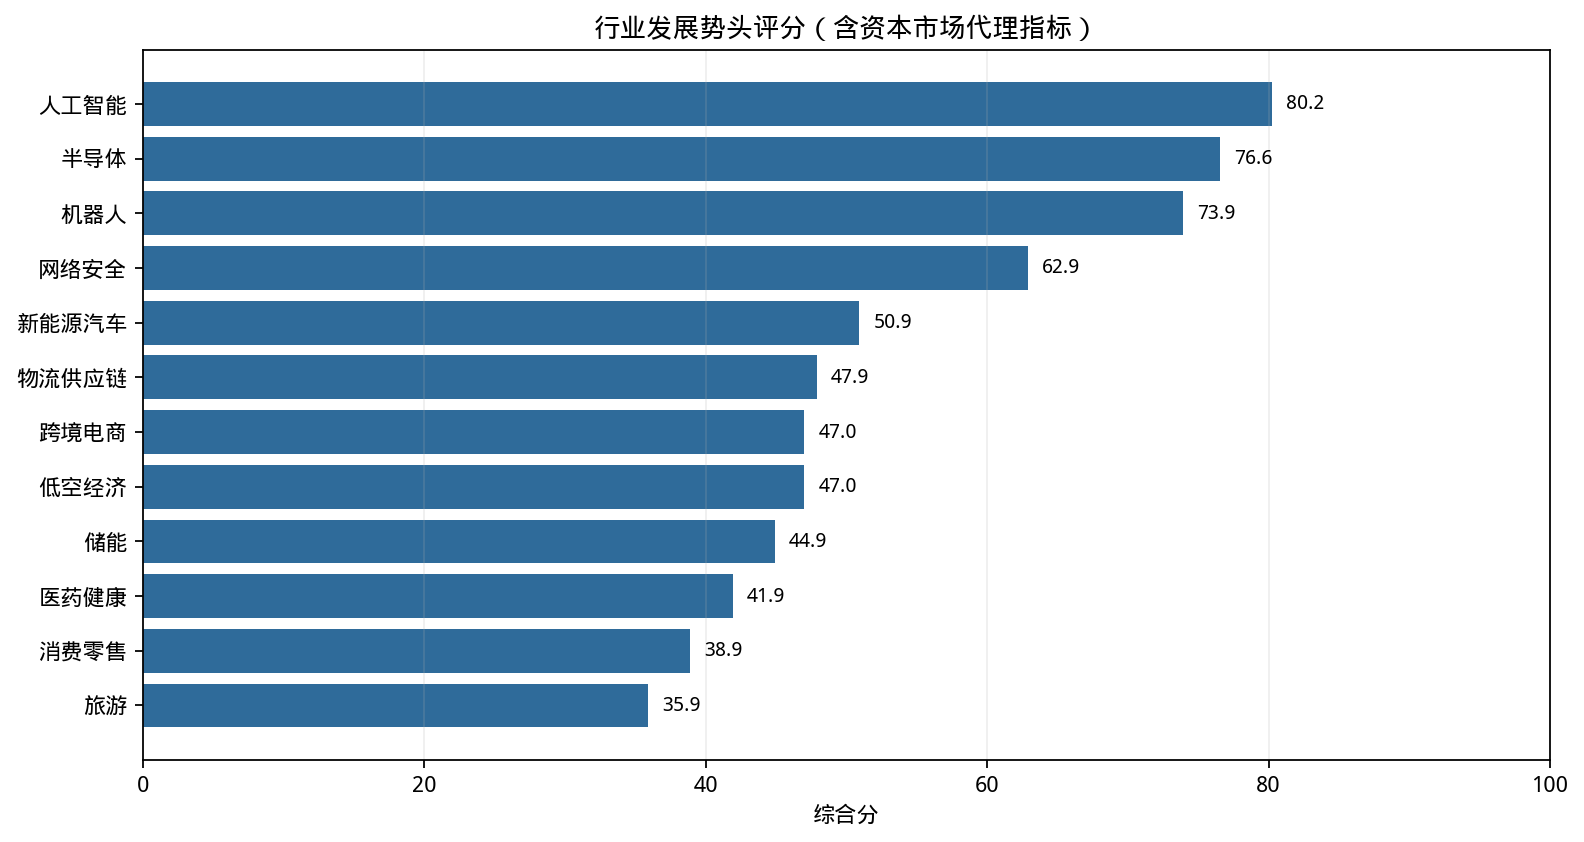
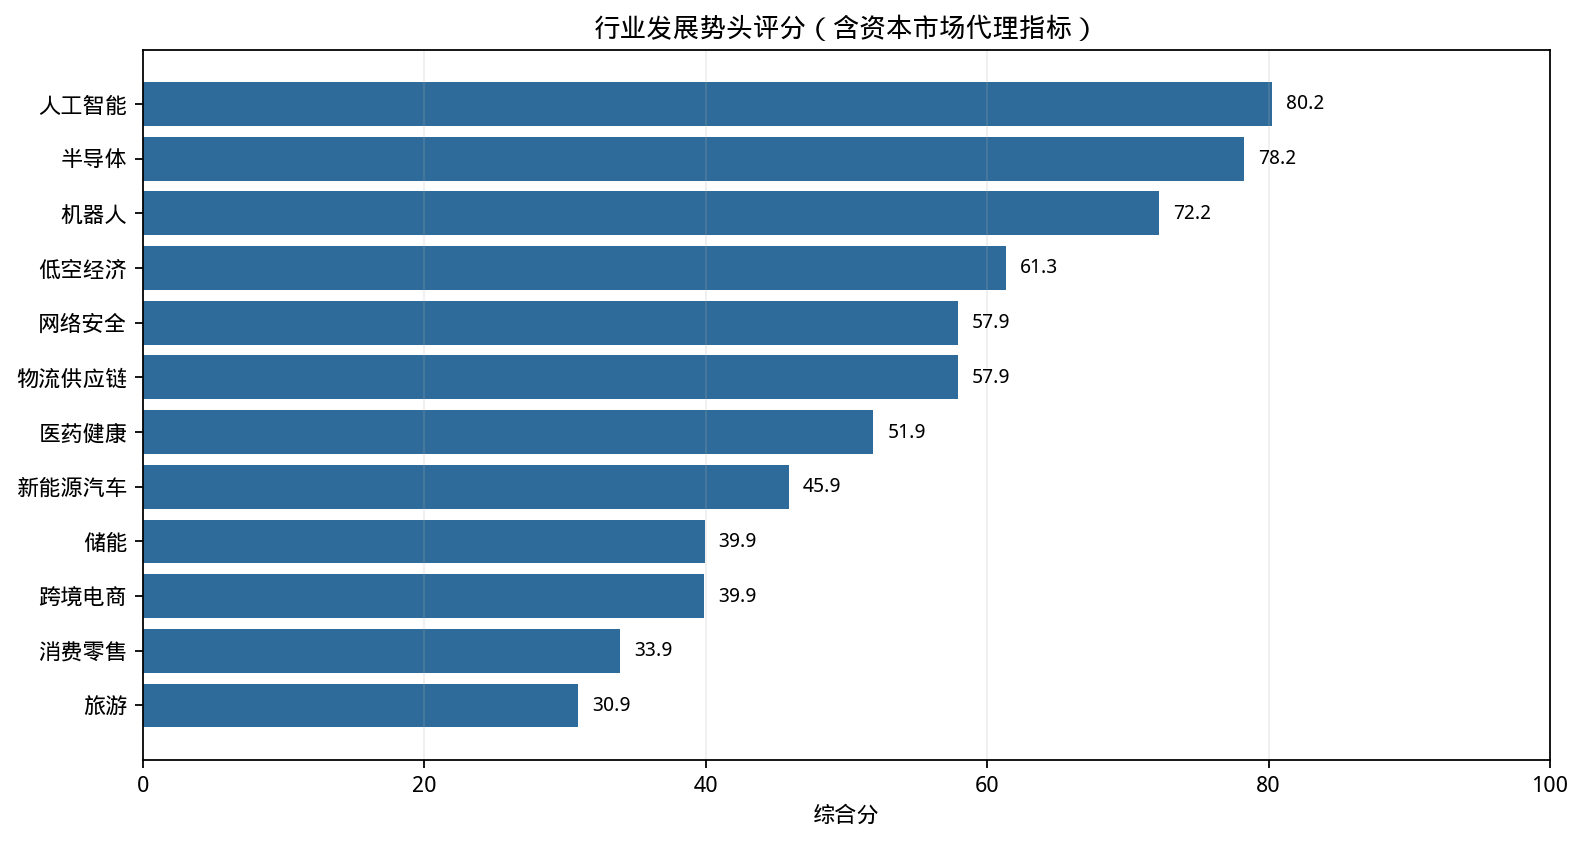
Daily update industry tracker report 2026-06-12

diff --git a/archives/2026-06-12/reports/industry_report.md b/archives/2026-06-12/reports/industry_report.md
@@ -1,6 +1,6 @@
 # 行业发展势头排名报告
 
-- 生成时间：2026-06-12 01:33:56 CST
+- 生成时间：2026-06-12 08:00:22 CST
 - 数据日期：2026-06-12
 
 ## 行业排名
@@ -8,25 +8,25 @@
 | 排名 | 行业 | 综合分 | 新闻热度分 | 市场代理分 | 政策热度分 | 可用权重 |
 | --- | --- | --- | --- | --- | --- | --- |
 | 1 | 人工智能 | 80.25 | 100.00 | 80.00 | 54.17 | 1.00 |
-| 2 | 半导体 | 76.58 | 83.33 | 90.00 | 54.17 | 1.00 |
-| 3 | 机器人 | 73.92 | 91.67 | 70.00 | 54.17 | 1.00 |
-| 4 | 网络安全 | 62.92 | 41.67 | 100.00 | 54.17 | 1.00 |
-| 5 | 新能源汽车 | 50.92 | 41.67 | 60.00 | 54.17 | 1.00 |
-| 6 | 物流供应链 | 47.92 | 41.67 | 50.00 | 54.17 | 1.00 |
-| 7 | 低空经济 | 47.02 | 41.67 | - | 54.17 | 0.70 |
-| 7 | 跨境电商 | 47.02 | 41.67 | - | 54.17 | 0.70 |
-| 9 | 储能 | 44.92 | 41.67 | 40.00 | 54.17 | 1.00 |
-| 10 | 医药健康 | 41.92 | 41.67 | 30.00 | 54.17 | 1.00 |
-| 11 | 消费零售 | 38.92 | 41.67 | 20.00 | 54.17 | 1.00 |
-| 12 | 旅游 | 35.92 | 41.67 | 10.00 | 54.17 | 1.00 |
+| 2 | 半导体 | 78.25 | 87.50 | 90.00 | 54.17 | 1.00 |
+| 3 | 机器人 | 72.25 | 87.50 | 70.00 | 54.17 | 1.00 |
+| 4 | 低空经济 | 61.31 | 66.67 | - | 54.17 | 0.70 |
+| 5 | 物流供应链 | 57.92 | 66.67 | 50.00 | 54.17 | 1.00 |
+| 5 | 网络安全 | 57.92 | 29.17 | 100.00 | 54.17 | 1.00 |
+| 7 | 医药健康 | 51.92 | 66.67 | 30.00 | 54.17 | 1.00 |
+| 8 | 新能源汽车 | 45.92 | 29.17 | 60.00 | 54.17 | 1.00 |
+| 9 | 储能 | 39.92 | 29.17 | 40.00 | 54.17 | 1.00 |
+| 10 | 跨境电商 | 39.88 | 29.17 | - | 54.17 | 0.70 |
+| 11 | 消费零售 | 33.92 | 29.17 | 20.00 | 54.17 | 1.00 |
+| 12 | 旅游 | 30.92 | 29.17 | 10.00 | 54.17 | 1.00 |
 
 ## Top 5 行业及判断依据
 
-- **人工智能**：综合分 80.25；新闻热度 5，市场代理近 3 个月收益 0.2225，政策热度 0。
-- **半导体**：综合分 76.58；新闻热度 2，市场代理近 3 个月收益 0.3316，政策热度 0。
-- **机器人**：综合分 73.92；新闻热度 4，市场代理近 3 个月收益 0.0948，政策热度 0。
-- **网络安全**：综合分 62.92；新闻热度 0，市场代理近 3 个月收益 0.4721，政策热度 0。
-- **新能源汽车**：综合分 50.92；新闻热度 0，市场代理近 3 个月收益 -0.0455，政策热度 0。
+- **人工智能**：综合分 80.25；新闻热度 7，市场代理近 3 个月收益 0.2225，政策热度 0。
+- **半导体**：综合分 78.25；新闻热度 2，市场代理近 3 个月收益 0.3316，政策热度 0。
+- **机器人**：综合分 72.25；新闻热度 2，市场代理近 3 个月收益 0.0948，政策热度 0。
+- **低空经济**：综合分 61.31；新闻热度 1，市场代理近 3 个月收益 -，政策热度 0。
+- **物流供应链**：综合分 57.92；新闻热度 1，市场代理近 3 个月收益 -0.0804，政策热度 0。
 
 ## 数据完整性与降级状态
 
@@ -35,13 +35,13 @@
 | 人工智能 | 1.00 |  | news_heat:ok; market_return_3m:ok; policy_heat:no_match |
 | 半导体 | 1.00 |  | news_heat:ok; market_return_3m:ok; policy_heat:no_match |
 | 机器人 | 1.00 |  | news_heat:ok; market_return_3m:ok; policy_heat:no_match |
+| 低空经济 | 0.70 | market_return_3m | news_heat:ok; market_return_3m:missing_config; policy_heat:no_match |
+| 物流供应链 | 1.00 |  | news_heat:ok; market_return_3m:ok; policy_heat:no_match |
 | 网络安全 | 1.00 |  | news_heat:no_match; market_return_3m:ok; policy_heat:no_match |
+| 医药健康 | 1.00 |  | news_heat:ok; market_return_3m:ok; policy_heat:no_match |
 | 新能源汽车 | 1.00 |  | news_heat:no_match; market_return_3m:ok; policy_heat:no_match |
-| 物流供应链 | 1.00 |  | news_heat:no_match; market_return_3m:ok; policy_heat:no_match |
-| 低空经济 | 0.70 | market_return_3m | news_heat:no_match; market_return_3m:missing_config; policy_heat:no_match |
-| 跨境电商 | 0.70 | market_return_3m | news_heat:no_match; market_return_3m:missing_config; policy_heat:no_match |
 | 储能 | 1.00 |  | news_heat:no_match; market_return_3m:ok; policy_heat:no_match |
-| 医药健康 | 1.00 |  | news_heat:no_match; market_return_3m:ok; policy_heat:no_match |
+| 跨境电商 | 0.70 | market_return_3m | news_heat:no_match; market_return_3m:missing_config; policy_heat:no_match |
 | 消费零售 | 1.00 |  | news_heat:no_match; market_return_3m:ok; policy_heat:no_match |
 | 旅游 | 1.00 |  | news_heat:no_match; market_return_3m:ok; policy_heat:no_match |
 

diff --git a/reports/industry_report.md b/reports/industry_report.md
@@ -1,6 +1,6 @@
 # 行业发展势头排名报告
 
-- 生成时间：2026-06-12 01:33:56 CST
+- 生成时间：2026-06-12 08:00:22 CST
 - 数据日期：2026-06-12
 
 ## 行业排名
@@ -8,25 +8,25 @@
 | 排名 | 行业 | 综合分 | 新闻热度分 | 市场代理分 | 政策热度分 | 可用权重 |
 | --- | --- | --- | --- | --- | --- | --- |
 | 1 | 人工智能 | 80.25 | 100.00 | 80.00 | 54.17 | 1.00 |
-| 2 | 半导体 | 76.58 | 83.33 | 90.00 | 54.17 | 1.00 |
-| 3 | 机器人 | 73.92 | 91.67 | 70.00 | 54.17 | 1.00 |
-| 4 | 网络安全 | 62.92 | 41.67 | 100.00 | 54.17 | 1.00 |
-| 5 | 新能源汽车 | 50.92 | 41.67 | 60.00 | 54.17 | 1.00 |
-| 6 | 物流供应链 | 47.92 | 41.67 | 50.00 | 54.17 | 1.00 |
-| 7 | 低空经济 | 47.02 | 41.67 | - | 54.17 | 0.70 |
-| 7 | 跨境电商 | 47.02 | 41.67 | - | 54.17 | 0.70 |
-| 9 | 储能 | 44.92 | 41.67 | 40.00 | 54.17 | 1.00 |
-| 10 | 医药健康 | 41.92 | 41.67 | 30.00 | 54.17 | 1.00 |
-| 11 | 消费零售 | 38.92 | 41.67 | 20.00 | 54.17 | 1.00 |
-| 12 | 旅游 | 35.92 | 41.67 | 10.00 | 54.17 | 1.00 |
+| 2 | 半导体 | 78.25 | 87.50 | 90.00 | 54.17 | 1.00 |
+| 3 | 机器人 | 72.25 | 87.50 | 70.00 | 54.17 | 1.00 |
+| 4 | 低空经济 | 61.31 | 66.67 | - | 54.17 | 0.70 |
+| 5 | 物流供应链 | 57.92 | 66.67 | 50.00 | 54.17 | 1.00 |
+| 5 | 网络安全 | 57.92 | 29.17 | 100.00 | 54.17 | 1.00 |
+| 7 | 医药健康 | 51.92 | 66.67 | 30.00 | 54.17 | 1.00 |
+| 8 | 新能源汽车 | 45.92 | 29.17 | 60.00 | 54.17 | 1.00 |
+| 9 | 储能 | 39.92 | 29.17 | 40.00 | 54.17 | 1.00 |
+| 10 | 跨境电商 | 39.88 | 29.17 | - | 54.17 | 0.70 |
+| 11 | 消费零售 | 33.92 | 29.17 | 20.00 | 54.17 | 1.00 |
+| 12 | 旅游 | 30.92 | 29.17 | 10.00 | 54.17 | 1.00 |
 
 ## Top 5 行业及判断依据
 
-- **人工智能**：综合分 80.25；新闻热度 5，市场代理近 3 个月收益 0.2225，政策热度 0。
-- **半导体**：综合分 76.58；新闻热度 2，市场代理近 3 个月收益 0.3316，政策热度 0。
-- **机器人**：综合分 73.92；新闻热度 4，市场代理近 3 个月收益 0.0948，政策热度 0。
-- **网络安全**：综合分 62.92；新闻热度 0，市场代理近 3 个月收益 0.4721，政策热度 0。
-- **新能源汽车**：综合分 50.92；新闻热度 0，市场代理近 3 个月收益 -0.0455，政策热度 0。
+- **人工智能**：综合分 80.25；新闻热度 7，市场代理近 3 个月收益 0.2225，政策热度 0。
+- **半导体**：综合分 78.25；新闻热度 2，市场代理近 3 个月收益 0.3316，政策热度 0。
+- **机器人**：综合分 72.25；新闻热度 2，市场代理近 3 个月收益 0.0948，政策热度 0。
+- **低空经济**：综合分 61.31；新闻热度 1，市场代理近 3 个月收益 -，政策热度 0。
+- **物流供应链**：综合分 57.92；新闻热度 1，市场代理近 3 个月收益 -0.0804，政策热度 0。
 
 ## 数据完整性与降级状态
 
@@ -35,13 +35,13 @@
 | 人工智能 | 1.00 |  | news_heat:ok; market_return_3m:ok; policy_heat:no_match |
 | 半导体 | 1.00 |  | news_heat:ok; market_return_3m:ok; policy_heat:no_match |
 | 机器人 | 1.00 |  | news_heat:ok; market_return_3m:ok; policy_heat:no_match |
+| 低空经济 | 0.70 | market_return_3m | news_heat:ok; market_return_3m:missing_config; policy_heat:no_match |
+| 物流供应链 | 1.00 |  | news_heat:ok; market_return_3m:ok; policy_heat:no_match |
 | 网络安全 | 1.00 |  | news_heat:no_match; market_return_3m:ok; policy_heat:no_match |
+| 医药健康 | 1.00 |  | news_heat:ok; market_return_3m:ok; policy_heat:no_match |
 | 新能源汽车 | 1.00 |  | news_heat:no_match; market_return_3m:ok; policy_heat:no_match |
-| 物流供应链 | 1.00 |  | news_heat:no_match; market_return_3m:ok; policy_heat:no_match |
-| 低空经济 | 0.70 | market_return_3m | news_heat:no_match; market_return_3m:missing_config; policy_heat:no_match |
-| 跨境电商 | 0.70 | market_return_3m | news_heat:no_match; market_return_3m:missing_config; policy_heat:no_match |
 | 储能 | 1.00 |  | news_heat:no_match; market_return_3m:ok; policy_heat:no_match |
-| 医药健康 | 1.00 |  | news_heat:no_match; market_return_3m:ok; policy_heat:no_match |
+| 跨境电商 | 0.70 | market_return_3m | news_heat:no_match; market_return_3m:missing_config; policy_heat:no_match |
 | 消费零售 | 1.00 |  | news_heat:no_match; market_return_3m:ok; policy_heat:no_match |
 | 旅游 | 1.00 |  | news_heat:no_match; market_return_3m:ok; policy_heat:no_match |
 
